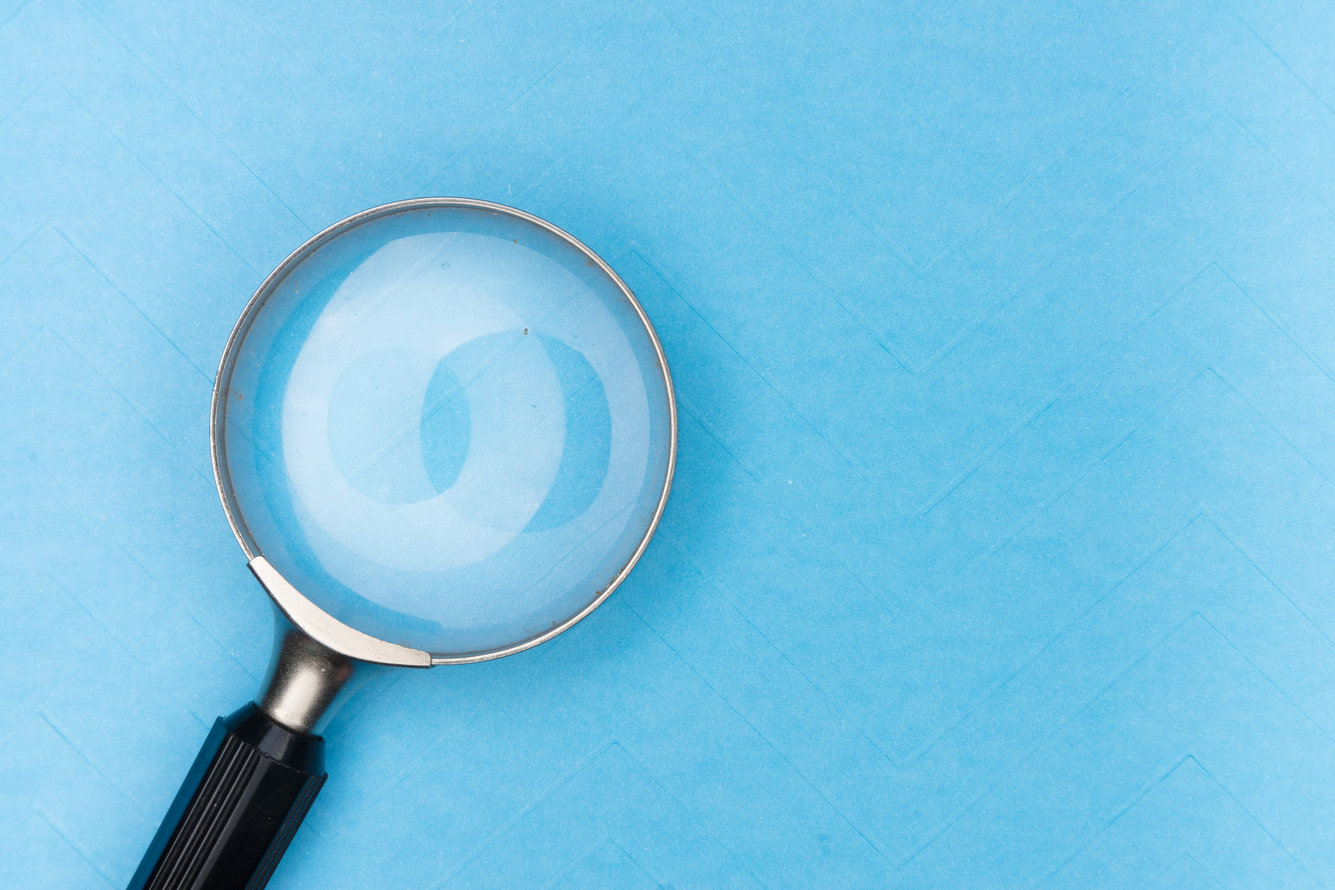
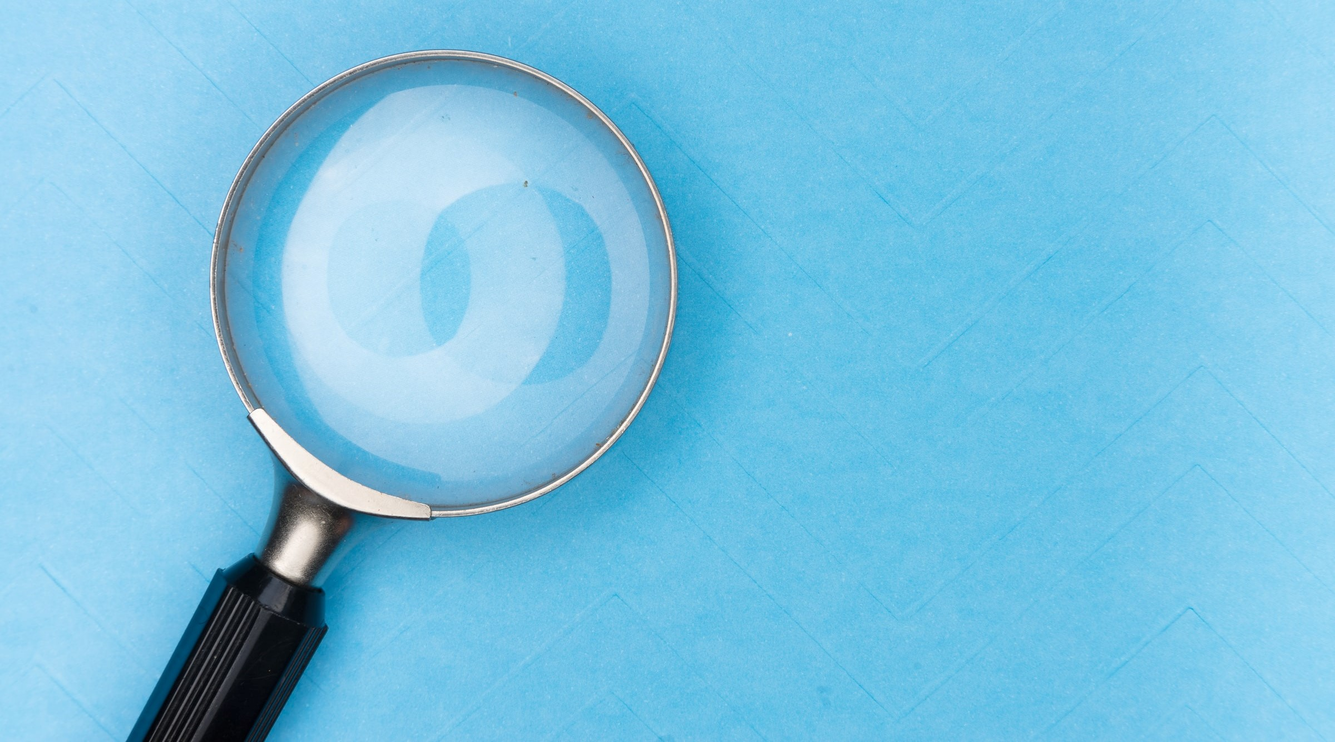
extract background styles to the css style, minor fixes

diff --git a/src/app/app.component.html b/src/app/app.component.html
@@ -3,7 +3,8 @@
     <div class="col-lg-10 offset-lg-1">
       <div class="container mb-5 text-center" id="header">
         <h1>SaleScanner</h1>
-        <h3>интелигентната търсачка за обяви</h3>
+        <h5><i>интелигентната търсачка за обяви</i></h5>
+        <h3>всички обяви на едно място</h3>
       </div>
     
       <div class="container mb-3" id="search-field">

diff --git a/src/environments/environment.ts b/src/environments/environment.ts
@@ -4,9 +4,10 @@
 
 export const environment = {
   production: false,
-  api_url: "http://127.0.0.1:5000/api"
+  api_url: "http://localhost:5000/api"
 };
 
+// 78.90.72.54 - the public one
 /*
  * For easier debugging in development mode, you can import the following file
  * to ignore zone related error stack frames such as `zone.run`, `zoneDelegate.invokeTask`.

diff --git a/src/styles.css b/src/styles.css
@@ -1,2 +1,11 @@
 /* You can add global styles to this file, and also import other style files */
 @import "~@ng-select/ng-select/themes/default.theme.css";
+
+
+.body-background {
+    background-image:url('assets/search.jpg');
+    background-position:center top;
+    background-attachment:fixed;
+    background-repeat: no-repeat;
+    background-size: cover;
+}

diff --git a/src/index.html b/src/index.html
@@ -7,7 +7,7 @@
   <meta name="viewport" content="width=device-width, initial-scale=1">
   <link rel="icon" type="image/x-icon" href="assets/find.ico">
 </head>
-<body style="background-image:url('assets/search.jpg'); background-position:center top; background-attachment:fixed;">
+<body class="body-background">
   <app-root></app-root>
 </body>
 </html>
